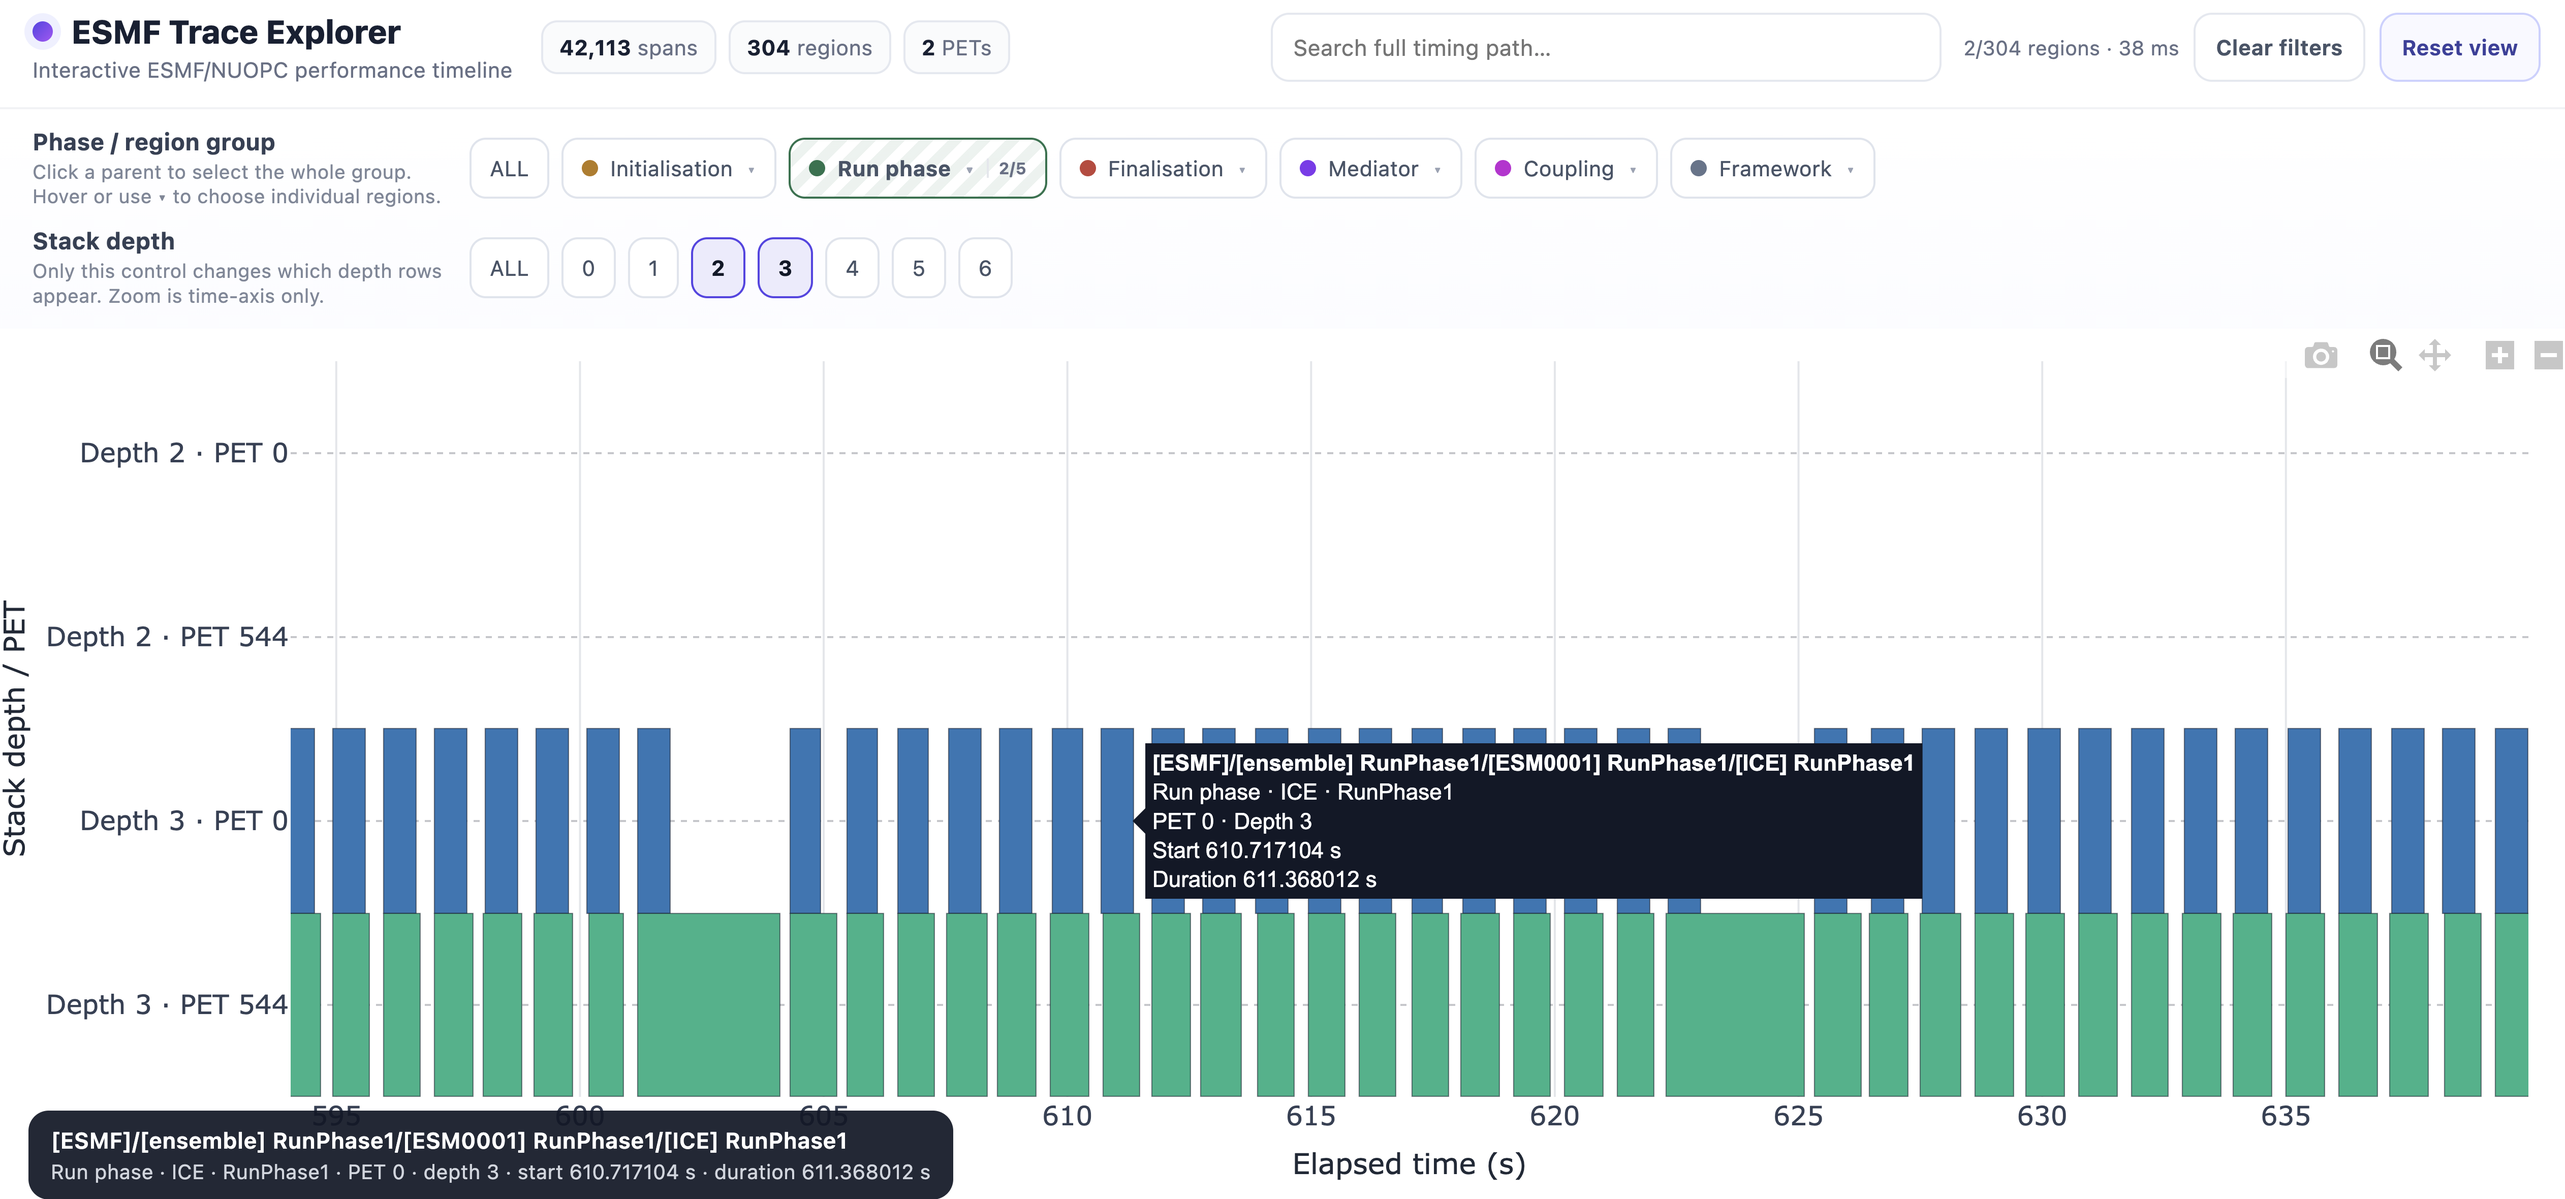
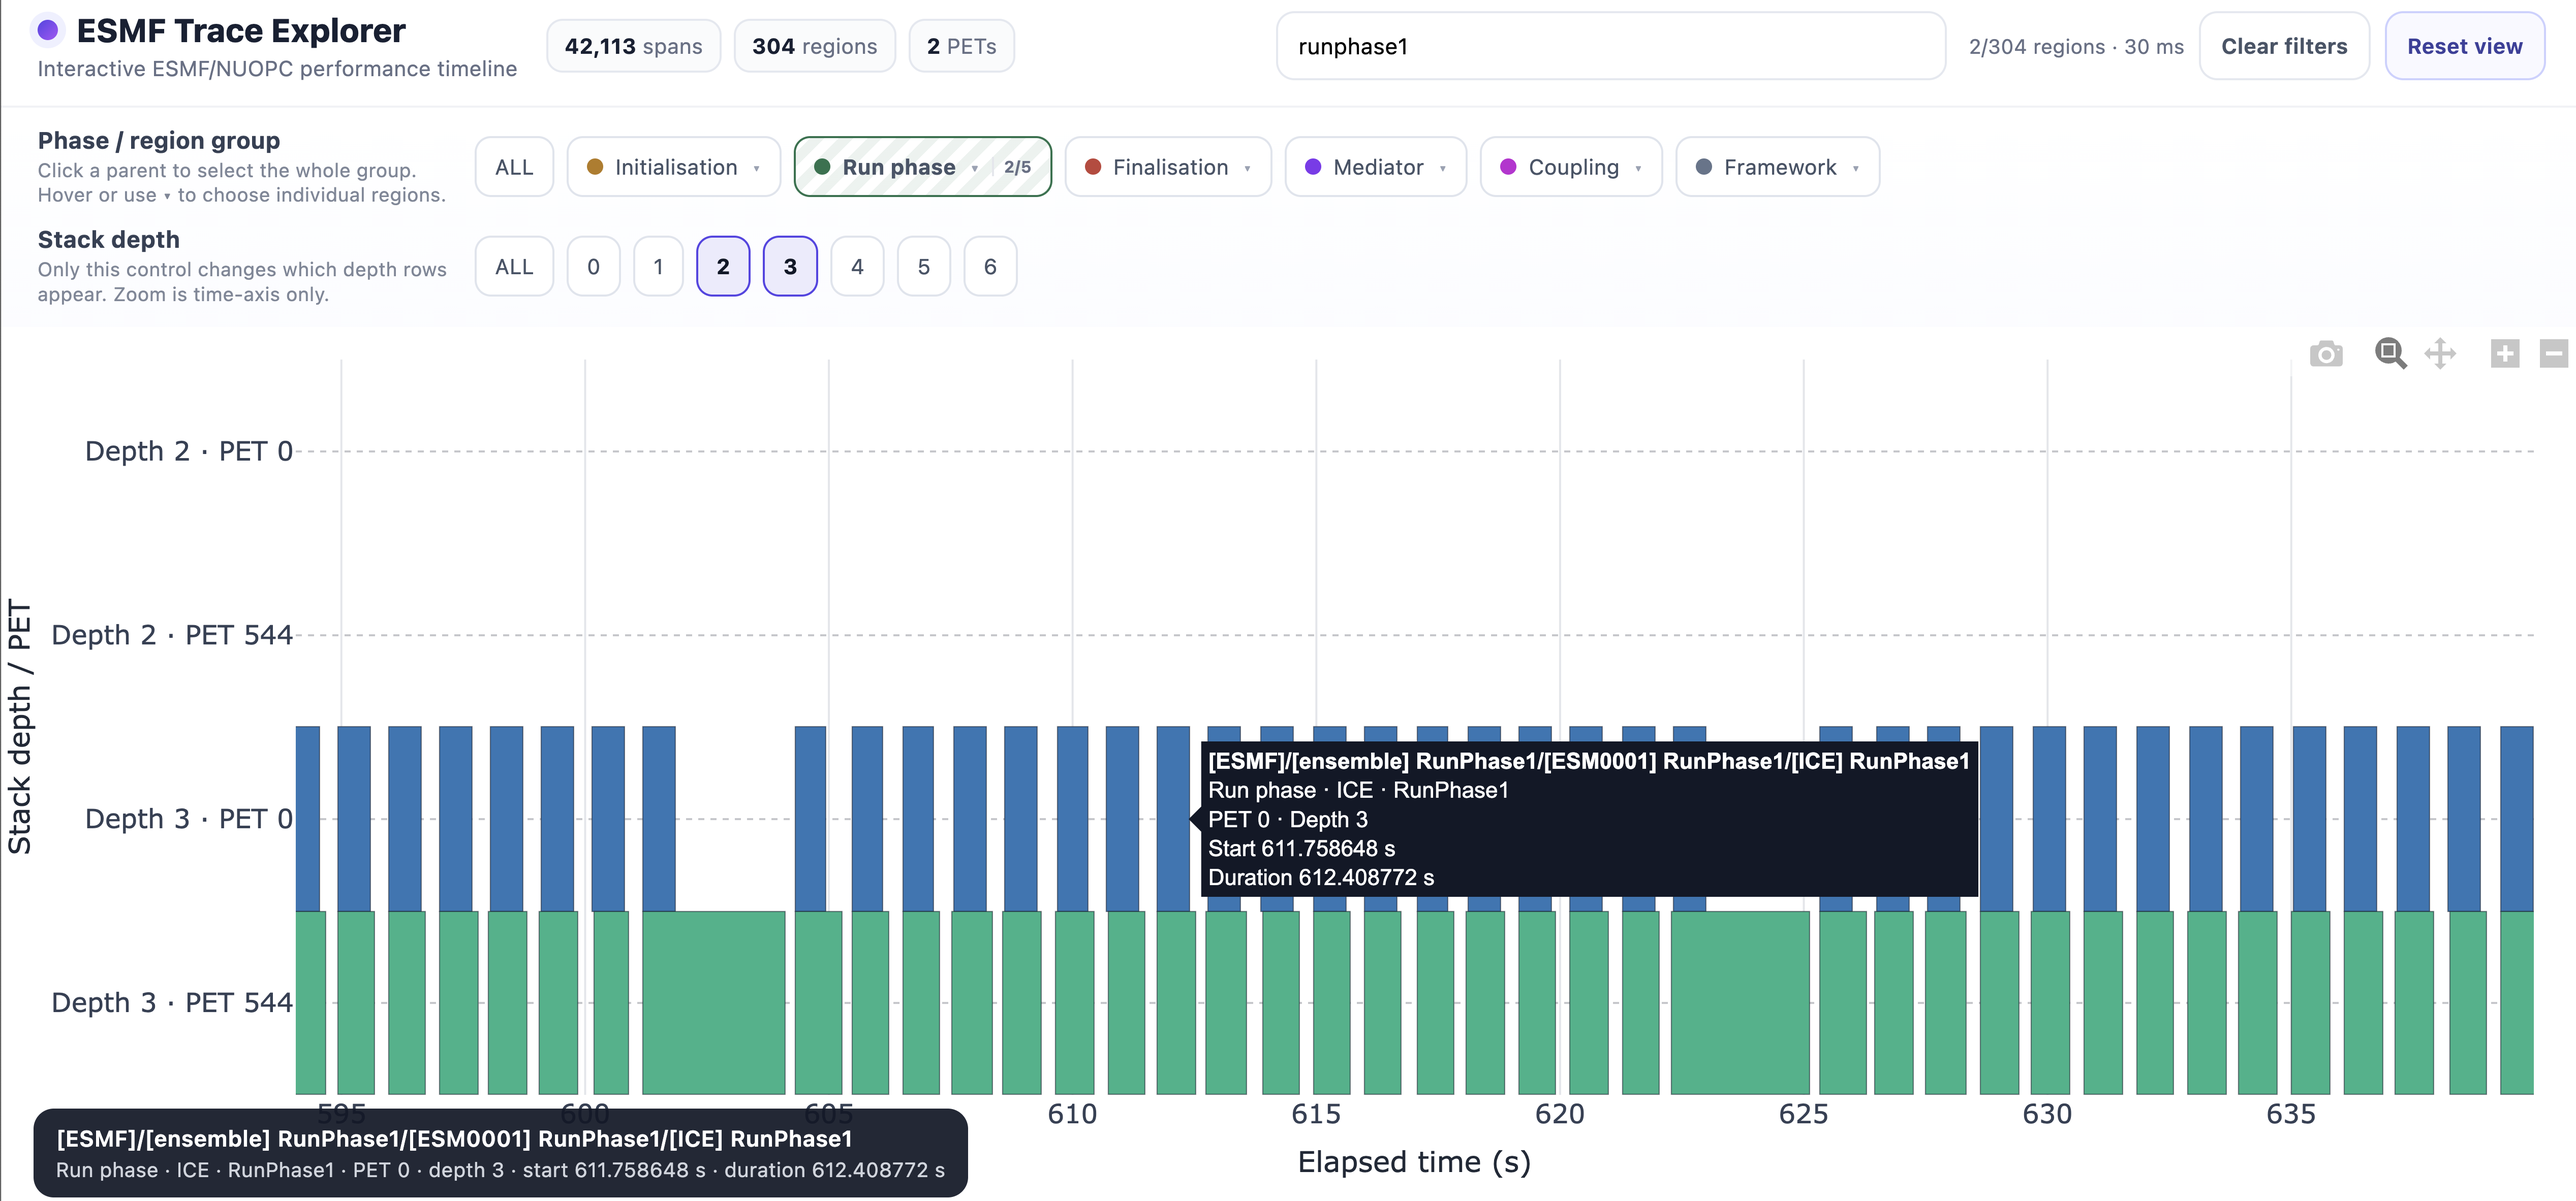
update screenshots

diff --git a/documentation/docs/pages/flame_graph.md b/documentation/docs/pages/flame_graph.md
@@ -189,21 +189,18 @@ Search is combined with the current phase/region and stack-depth selections.
 
 For example, searching for:
 
-![flame_graph_search](/assets/flame_graph_search.png){: loading="lazy" }
-
 ```text
 IPDv03p1
 ```
 
-can match more than one component if that phase exists in several components.
-Use the phase menu to distinguish entries such as:
+can match more than one component if that phase exists in several components. Use the phase menu to distinguish entries such as:
 
 ```text
 OCN · IPDv03p1
 MED · IPDv03p1
 ```
 
-Searching does not change the X-axis range.
+![flame_graph_search](/assets/flame_graph_search.png){: loading="lazy" }
 
 ## Hover information
 
@@ -248,17 +245,16 @@ Within a phase/region selection, multiple selected leaves are combined with
 
 For example:
 
-![flame_graph_ocn_ice](/assets/flame_graph_ocn_ice.png){: loading="lazy" }
-
 ```text
 Regions: OCN · RunPhase1 OR ICE · RunPhase1
 Depths:  2 OR 3
 Search:  RunPhase
 ```
-
 shows regions satisfying all three filter dimensions.
 
-Filtering changes region visibility in a single Plotly update and does not rebuild the span data or modify the current X-axis zoom.
+![flame_graph_ocn_ice](/assets/flame_graph_ocn_ice.png){: loading="lazy" }
+
+Filtering changes region visibility in a single `Plotly` update and does not rebuild the span data or modify the current X-axis zoom.
 
 ## Interpreting the flame graph
 
